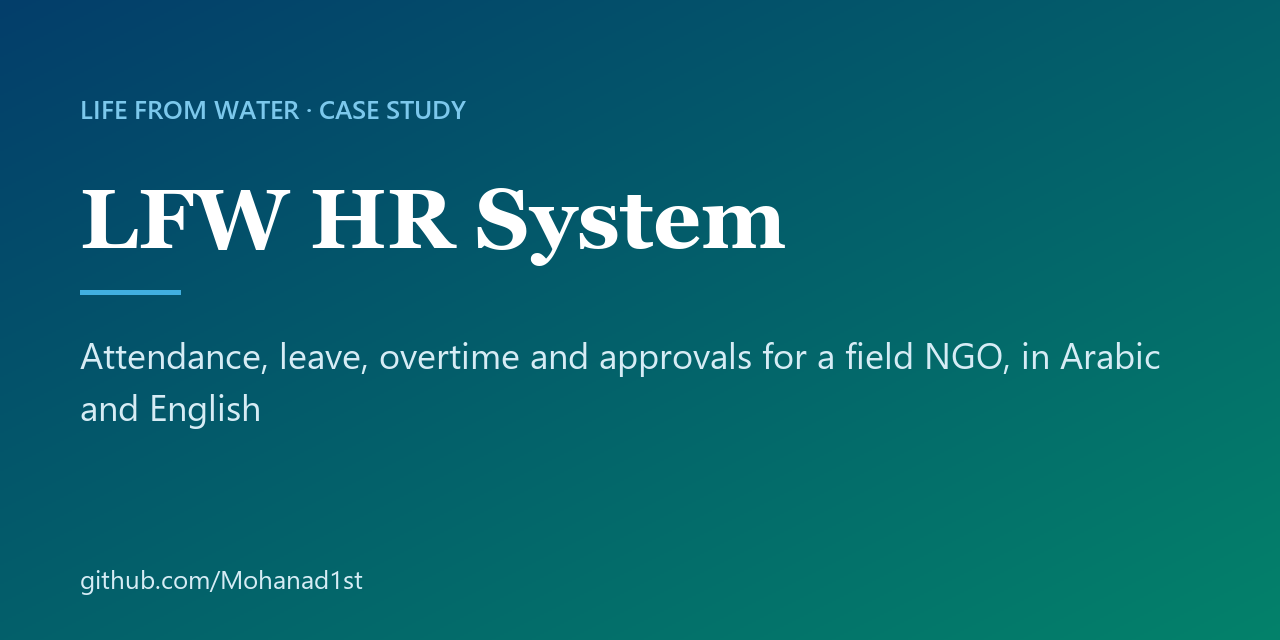
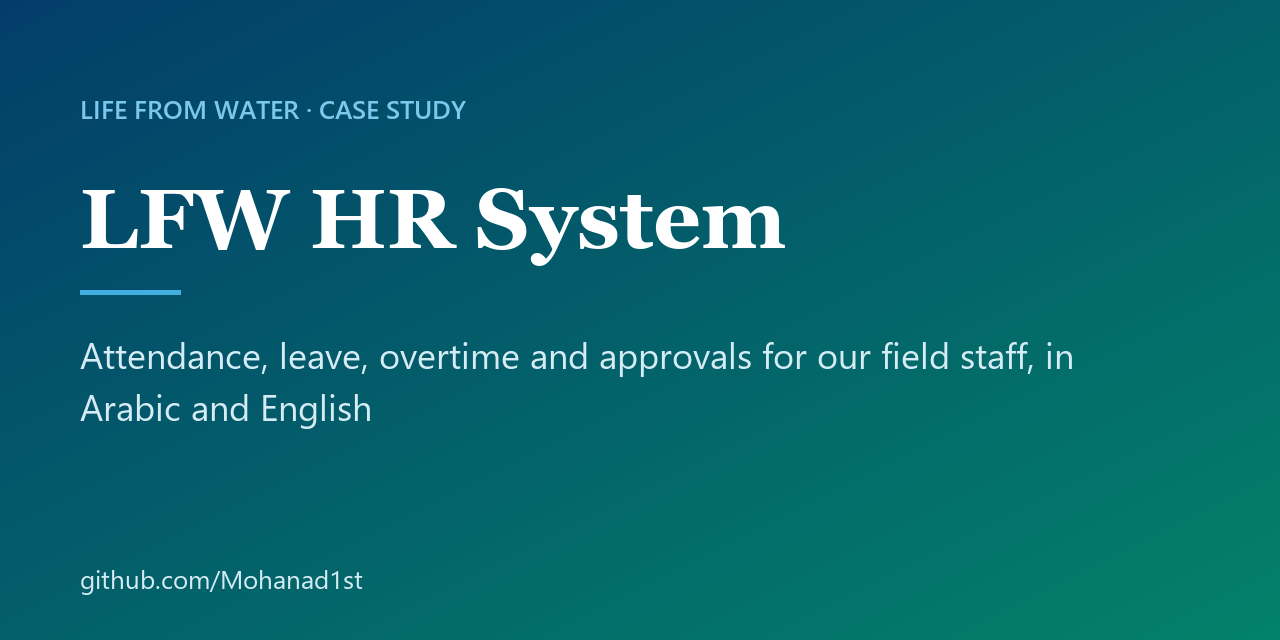
docs: rewrite case study in plain first-person voice
Every factual line checked against its source; overstated or unsourced lines removed or corrected.

Changed region(s): [[0.625, 0.5312, 0.9062, 0.5938], [0.0625, 0.625, 0.2812, 0.6562]]

diff --git a/README.md b/README.md
@@ -1,66 +1,66 @@
 <p align="center"><img src="assets/banner.svg" alt="LFW HR System" width="100%"></p>
 
-<p align="center"><b>Attendance, leave, overtime and approvals for a field NGO, in Arabic and English</b></p>
+<p align="center"><b>Attendance, leave, overtime and approvals for our field staff, in Arabic and English</b></p>
 
 <p align="center" dir="rtl" lang="ar">نظام الموارد البشرية في مؤسسة ومن الماء حياة: الحضور والإجازات وساعات العمل الإضافية والموافقات</p>
 
 <p align="center"><b>Status:</b> In production use &nbsp;·&nbsp; <b>Built by</b> <a href="https://github.com/Mohanad1st">Mohannad Hesham</a></p>
 
-> Case study only: the source is private because it holds real staff records. Walkthrough on request.
+> This is a case study. The source is private because it holds real staff records.
 
-## The problem
+## Why we built it
 
-Life From Water's staff work across offices and field sites. Clocking in, requesting leave or overtime, and getting expense requests approved used to happen over messages and paper — and because attendance feeds payroll, a lost record costs someone real money. This system replaced that with one bilingual place for the whole flow, without paying for a commercial HR subscription.
+Our staff work across offices and field sites. Check-ins, leave, overtime and expense approvals used to be scattered across manual and ad-hoc tools. Attendance feeds payroll, so here accuracy and a clear record matter more than usual. We didn't want a commercial HR subscription. So we built our own.
 
 ## What it does
 
-- Staff check in and out, with location verification, and see their own attendance history
-- Leave and overtime requests that managers and HR approve or reject with comments
-- Expense and finance requests routed through department and finance approval, with printable request views
-- HR manages people, roles and which modules each role can see
-- Exports that feed payroll, and a page that flags attendance anomalies
-- An audit log of approvals and administrative actions
+- Staff check in and out with a verified location, and see their own history.
+- They ask for leave or overtime. A manager or HR approves or rejects it, with a comment.
+- Expense requests go through the department, then finance. Each one prints.
+- HR decides who sees which module.
+- Attendance, overtime and leave export to our payroll process. A separate page flags unusual attendance.
 
-## See it
-
-How the work flows:
+## How it works
 
 ```mermaid
 flowchart TD
   accTitle: How a request moves through the HR system
-  accDescr: A staff member checks in or makes a request, a manager approves or rejects it with a comment, approved items go to HR or finance and then to a reviewed payroll export, and approvals are logged.
+  accDescr: A staff member checks in or makes a request, a manager approves or rejects it with a comment, approved items go to HR or finance and then to a payroll export, and approvals are logged.
   S[Staff member] --> R[Request]
   R --> M{Manager}
   M -- reject --> S
   M -- approve --> H[HR or finance]
-  H --> E[Reviewed export]
+  H --> E[Payroll export]
   M -- logged --> L[(Audit log)]
   H -- logged --> L
 ```
 
-<sub>Screens are not shown because every screen displays real staff records.</sub>
+<sub>Screens aren&#x27;t shown because every screen displays real staff records.</sub>
 
-## Built with
+## What it's built on
 
 React · Tailwind CSS · Python (FastAPI) · PostgreSQL · managed auth and storage · serverless hosting
 
-## Built responsibly
+## Safeguards
 
-- Role-based access for staff, managers and HR, with a separate finance approval path
-- Approvals and admin actions are recorded in an audit log
-- Automated backend tests run on every change
-- Full Arabic and right-to-left layout, with documentation kept in both languages
-- Known limits: some payroll safeguards are still being hardened, so every export is reviewed by a person before payroll is run
+- Roles for staff, managers and HR. Finance approval is limited to named finance staff.
+- Approvals and admin actions go into an audit log (one gap is still being closed).
+- Backend tests run on every change to the main branch. There are no frontend tests yet.
+- Arabic and right-to-left layout throughout.
 
-## What it deliberately doesn't do
+## What's not solved yet
 
-- It does not run payroll itself. It produces reviewed exports that payroll is processed from.
+- Some payroll checks are still open. "In production" means staff rely on it now, not that it's finished.
+
+## What it doesn't do
+
+- It doesn't run payroll. It exports the data payroll is processed from.
 
 ## More from Life From Water
 
 - [Ameen](https://github.com/Mohanad1st/ameen-showcase) — A finance desk you talk to, built to stop donation money being misfiled
-- [WaterEye](https://github.com/Mohanad1st/watereye-showcase) — Read an analogue water gauge from a phone photo, no smart meter needed
-- [Life From Water — donation platform](https://github.com/Mohanad1st/lifefromwater-website-showcase) — Donations and impact you can check, for a water-access NGO in rural Egypt
+- [WaterEye](https://github.com/Mohanad1st/watereye-showcase) — Read an analogue pressure or flow gauge from a photo, with no smart meter
+- [Life From Water: donation platform](https://github.com/Mohanad1st/lifefromwater-website-showcase) — A donation platform in the making, with impact you can check, for our water-access work in rural Egypt
 - [Opportunity Studio](https://github.com/Mohanad1st/opportunity-studio-showcase) — An evidence-first pipeline for grants, fellowships and tenders
 
 ---
